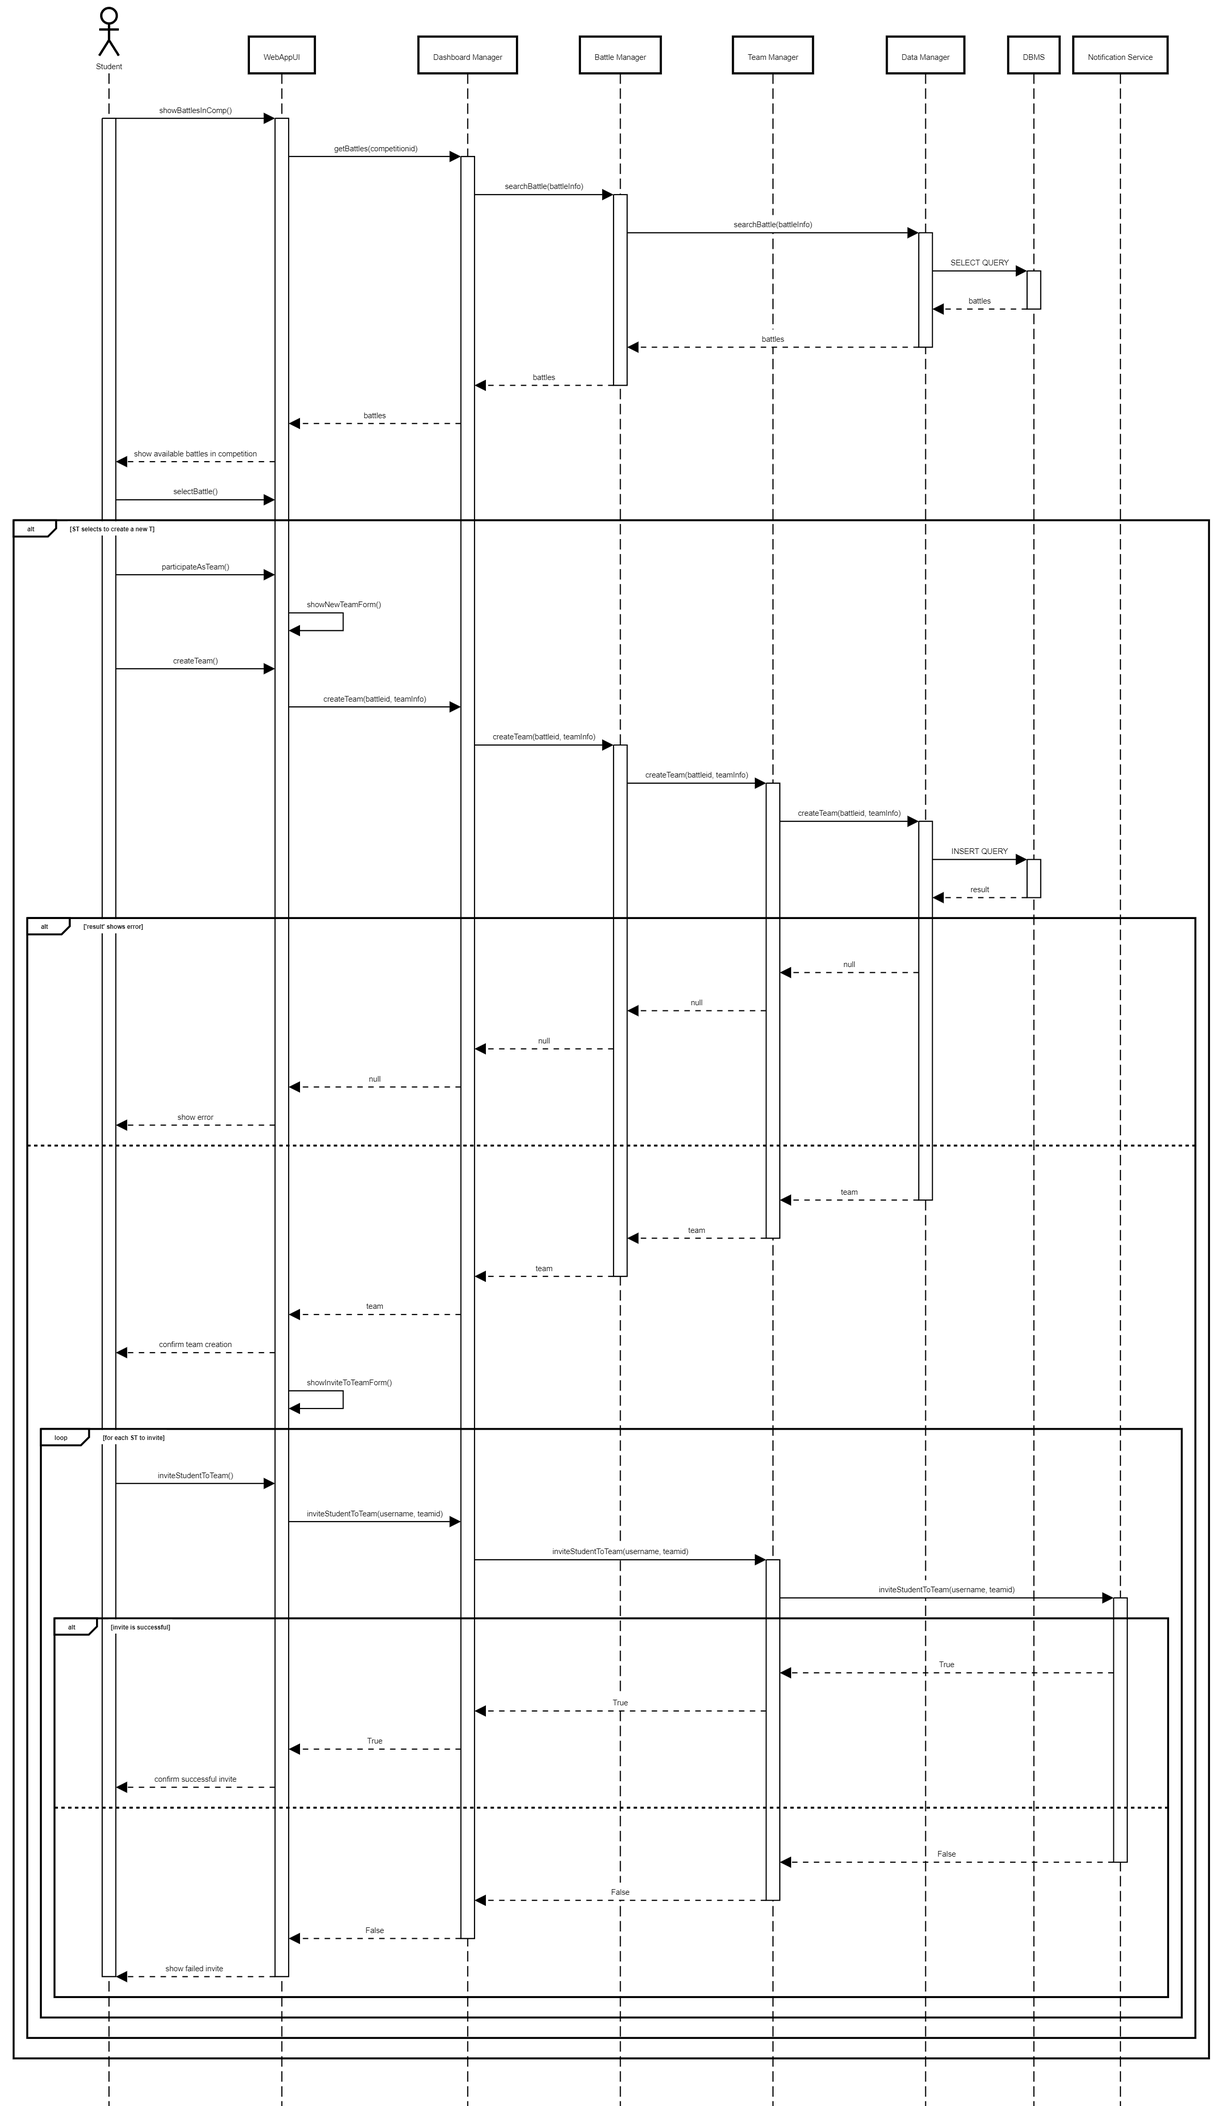
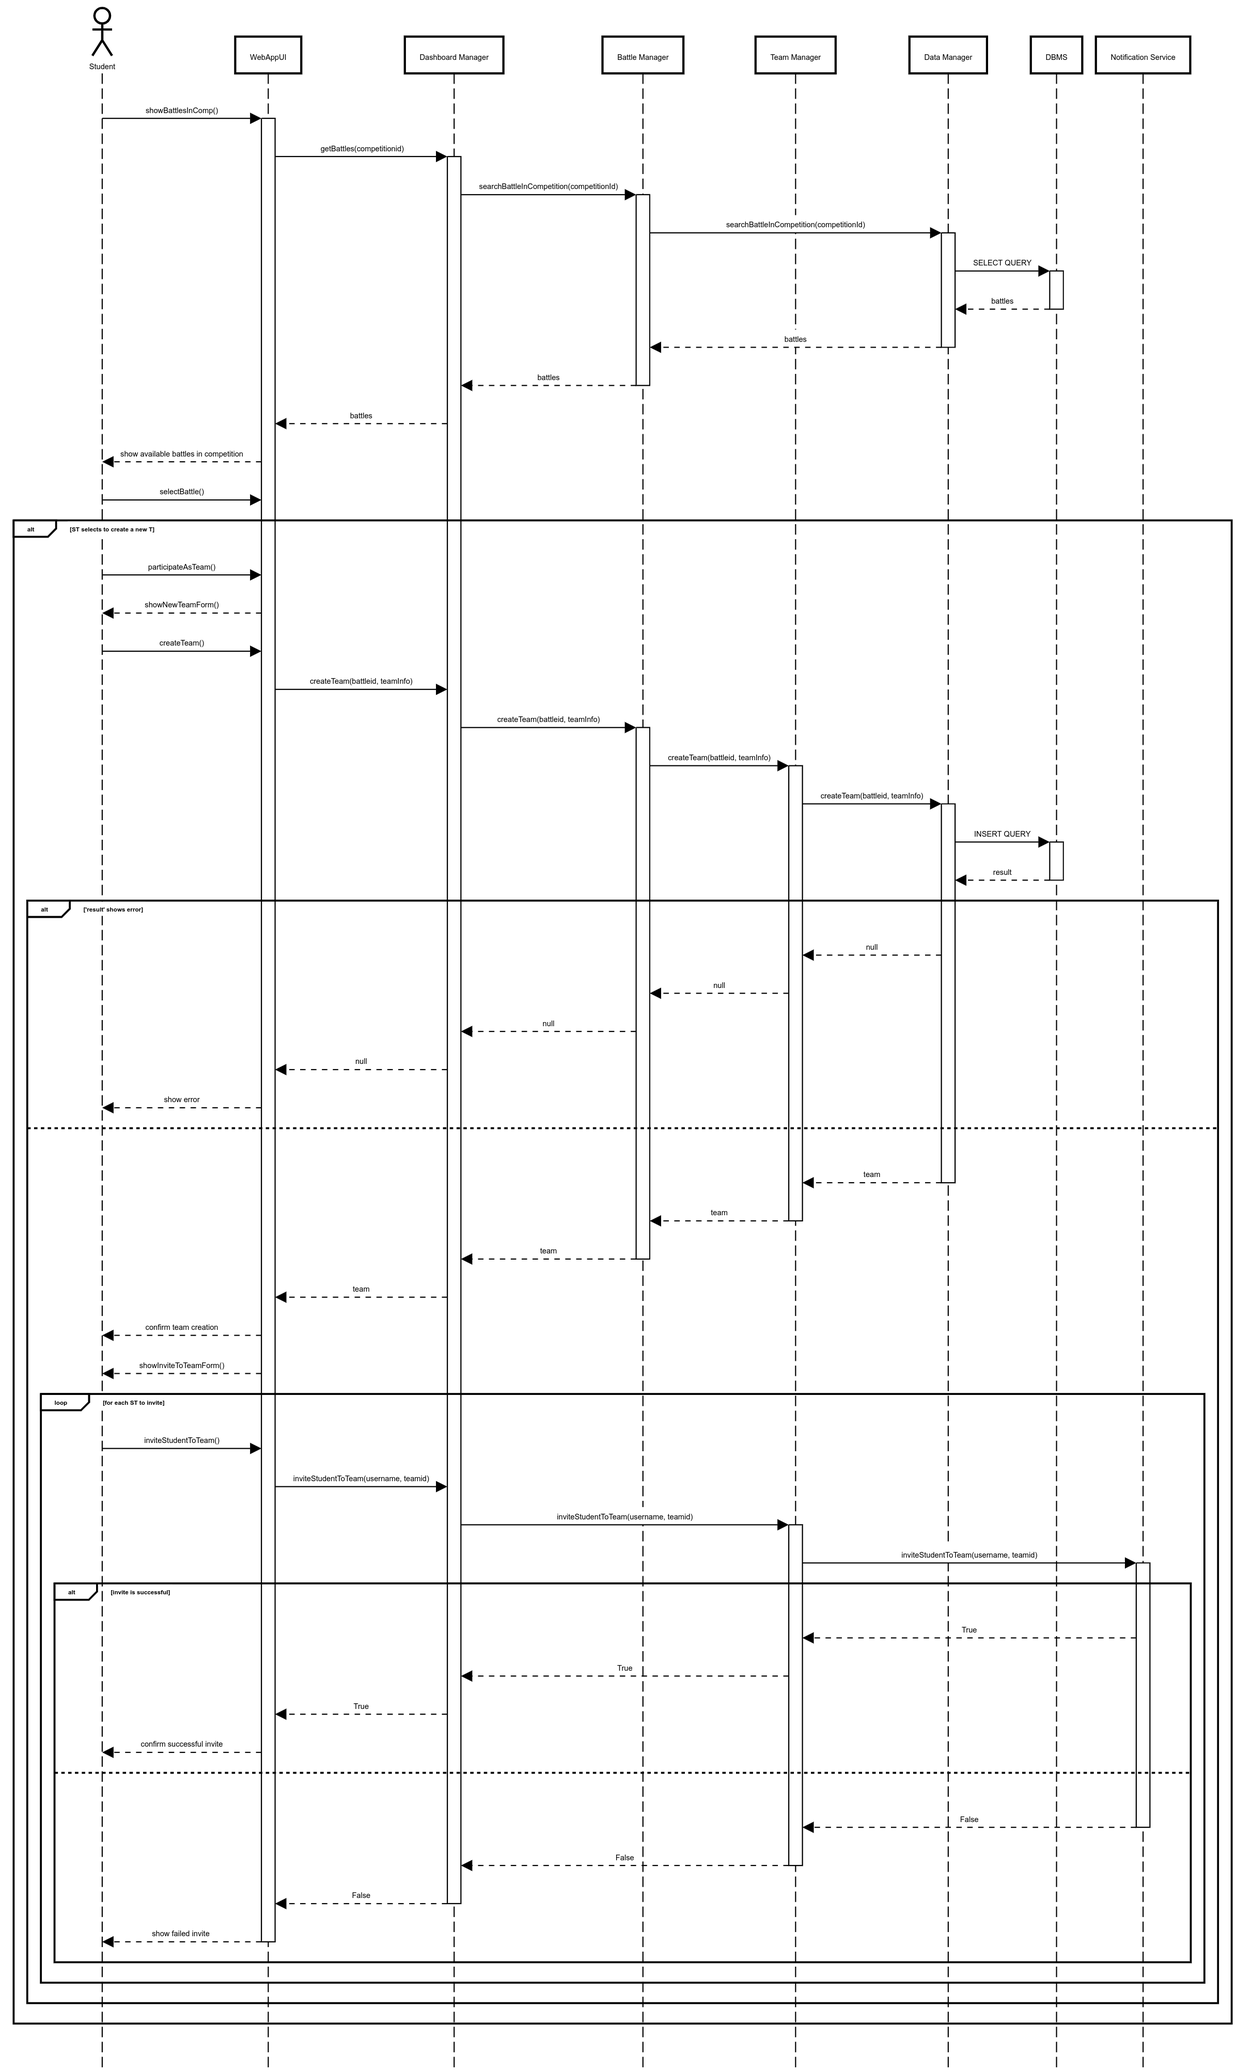
fixed interfaces and minor changes in UCs

diff --git a/DD/latex/Files/architectural_design.tex b/DD/latex/Files/architectural_design.tex
@@ -51,9 +51,9 @@ This section contains the sequence diagrams of the most important operations of 
 \label{ss:registration_diagram}%
 When a user wants to register to the system, he/she has to fill in the registration form and submit it. The difference between a ST and an ED is in the information passed with \textit{UserInfo} object, where the ED has to insert also the information about the institution he/she works for.
 
-The whole process is mainly handled by the \textit{Authentication Manager} component, that interact with the \textit{Data Manager} component to validate the information and insert the new user into the DBMS.
+The whole process is mainly handled by the \textit{Authentication Service} component, that interact with the \textit{Data Manager} component to validate the information and insert the new user into the DBMS.
 
-The system will check if the information inserted are valid and if the user is not already registered. This check is done internally from CKB and if the information are valid and the user is not already registered, the system will insert it into the DBMS and sends an email to the user with a link to confirm the registration, using the \textit{Notification Manager} component. The user will click on the link and the \textit{Authentication Manager} will confirm the registration.
+The system will check if the information inserted are valid and if the user is not already registered. This check is done internally from CKB and if the information are valid and the user is not already registered, the system will insert it into the DBMS and sends an email to the user with a link to confirm the registration, using the \textit{Notification Manager} component. The user will click on the link and the \textit{Authentication Service} will confirm the registration.
 
 If the information inserted are not valid, the user is already registered or the confirmation link is expired, the system will send an error message to the user.
 
@@ -66,7 +66,7 @@ If the information inserted are not valid, the user is already registered or the
 
 \subsubsection*{User Login}
 \label{ss:login_diagram}%
-When a user wants to login to the system, he/she has to fill in the login form and submit it. This process is equal for both the ST and the ED. As the User Registration, the whole process is handled by the \textit{Authentication Manager} component, that interact with the \textit{Data Manager} component to validate the information. Once the user is logged in, the \textit{Authentication Manager} will generate a token for the user, send it to the client and the user can finally access the dashboard.
+When a user wants to login to the system, he/she has to fill in the login form and submit it. This process is equal for both the ST and the ED. As the User Registration, the whole process is handled by the \textit{Authentication Service} component, that interact with the \textit{Data Manager} component to validate the information. Once the user is logged in, the \textit{Authentication Service} will generate a token for the user, send it to the client and the user can finally access the dashboard.
 
 If the login information are not valid, the system will show an error message to the user.
 
@@ -158,43 +158,45 @@ Assuming that a User (ST or ED) is enrolled firstly in a competition and secondl
 \subsection{Authentication Service}
 \subsubsection{AuthInterface}
 \begin{itemize}
-    \item \texttt{User login(username:String,password:String)}
-    \item \texttt{bool register(info:UserInfo)}
+    \item \texttt{User login(username:String,password:String)}%x
+    \item \texttt{bool register(info:UserInfo)} %x
 \end{itemize}
 
 \subsection{Data Manager}
 \subsubsection{AuthDAOInterface}
 \begin{itemize}
-    \item \texttt{bool addUser(info: UserInfo)}
-    \item \texttt{bool checkCredential(username:String,password:String)}
-    \item \texttt{bool validateNewUser(info:UserInfo)}
-    \item \texttt{User getUser(username:String)}
+    \item \texttt{bool addUser(info: UserInfo)}%x
+    \item \texttt{bool checkCredential(username:String,password:String)}%x
+    \item \texttt{bool validateNewUser(info:UserInfo)}%x
+    \item \texttt{User getUser(username:String)}%x
 \end{itemize}
-
+getCompeti
 \subsubsection{CompetitionDAOInterface}
 \begin{itemize}
     \item \texttt{bool createCompetition(info:CompetitionInfo)}
     \item \texttt{bool addStudentToCompetition(competitionName:String, studentUsername:String)}
-    \item \texttt{bool checkEdCanbeInvited(competitionName:String,educatorId:String)}
-    \item \texttt{CompetitionInfo getCompetition(name:String)}
+    \item \texttt{bool checkEdCanbeInvited(competitionName:String,educatorId:String)}%x
+    \item \texttt{Competition getCompetition(name:String)}%x
     \item \texttt{List<Team> getCompRankings(competitionid: String)}
 \end{itemize}
 
 \subsubsection{BattleDAOInterface}
 \begin{itemize}
-    \item \texttt{bool createBattle(competitionName:String, battleInfo:BattleInfo, educatorId:String)}
+    \item \texttt{bool createBattle(competitionName:String, battleInfo:BattleInfo,\\educatorId:String)}%x
     \item \texttt{Set<Battle> searchBattle(battleInfo:BattleInfo)}
+    \item \texttt{List<Battle> searchBattleInCompetition(competitionId:String)}%x
     \item \texttt{Battle showBattle(battleName:String)}
     \item \texttt{List<Team> getBattleRankings(battleid: String)}
+    \item \texttt{bool insertBattleConfiguration(battleConfiguration:BattleConfiguration, battleName:String,\\educatorId:String)}%x
 \end{itemize}
 
 \subsubsection{UserDAOInterface}
 \begin{itemize}
-    \item \texttt{Team createTeam(battleId:String, teamInfo:TeamInfo)}
+    \item \texttt{Team createTeam(battleId:String, teamInfo:TeamInfo)}%x
     \item \texttt{bool removeTeam(teamId:String)}
-    \item \texttt{bool addStudentToTeam(username:String,teamId:String)}
-    \item \texttt{bool setManualEvaluation(educatorId:String,commitId:String,evaluation: Evaluation)}
-    \item \texttt{Team getTeams(battleid: String)}
+    \item \texttt{bool addStudentToTeam(username:String,teamId:String)}%x
+    \item \texttt{bool setManualEvaluation(educatorId:String,commitId:String,evaluation: Evaluation)}%x
+    \item \texttt{Team getTeams(battleid: String)}%x
 \end{itemize}
 
 \subsubsection{BadgeDAOInterface}
@@ -203,19 +205,19 @@ Assuming that a User (ST or ED) is enrolled firstly in a competition and secondl
     \item \texttt{BadgeRule getBadgeRule(badge: Badge)}
     \item \texttt{bool removeBadge(badge:Badge)}
     \item \texttt{bool assignBadge(username:String, badge:Badge)}
-    \item \texttt{Badge createBadge(educatorId:String,competitionId:String, badgeInfo:BadgeInfo)}
+    \item \texttt{bool createBadge(educatorId:String,competitionId:String, badgeInfo:BadgeInfo)}%x
 \end{itemize}
 
 \subsubsection{NotificationDAOInterface}
 \begin{itemize}
     \item \texttt{Set<Student> retrieveStudentsFromTeam(teamId:String)}
     \item \texttt{Set<User> retrieveUsersFromCompetition(competitionId:String)}
-    \item \texttt{Set<Student> retrieveStudentsFromCompetition(competitionId:String)}
+    \item \texttt{Set<Student> retrieveStudentsFromCompetition(competitionId:String)}%x
     \item \texttt{Set<Educator> retrieveEducatorsFromCompetition(competitionId:String)}
     \item \texttt{Set<User> retrieveUsersFromBattle(battleId:String)}
     \item \texttt{Set<Student> retrieveStudentsFromBattle(battleId:String)}
     \item \texttt{Set<Educator> retrieveEducatorsFromBattle(battleId:String)}
-    \item \texttt{Educator retrieveEducatorInfo(educatorId:String)}
+    \item \texttt{Educator retrieveEducatorInfo(educatorId:String)}%x
 \end{itemize}
 
 \subsubsection{PointsAPI}
@@ -225,59 +227,65 @@ Assuming that a User (ST or ED) is enrolled firstly in a competition and secondl
 
 \subsubsection{DashboardDAOInterface}
 \begin{itemize}
-    \item \texttt{List<Student> searchStudent(studentName:String)}
-    \item \texttt{Student showStudentProfile(username:String)}
+    \item \texttt{List<Student> searchStudent(studentName:String)}%x
+    \item \texttt{Student showStudentProfile(username:String)}%x
+    \item \texttt{CommitInfo getLastCommit(teamId: String)}%x
 \end{itemize}
 
 \subsection{Dashboard Manager}
 \subsubsection{DashboardInterface}
 \begin{itemize}
-    \item \texttt{DashboardInfo getDashboardInfo(User)}
-    \item \texttt{createCompetition(competitionInfo:CompetitionInfo)}
-    \item \texttt{bool createBattle(battleInfo:BattleInfo)}
-    \item \texttt{bool joinCompetition(competitionName:String, studentUsername:String)}
-    \item \texttt{CompetitionInfo showCompetition(name:String)}
-    \item \texttt{BattleInfo getBattles(competitionid: String)}
-    \item \texttt{BattleInfo getBattles(competitionid: String, battleInfo: BattleInfo)}
-    \item \texttt{bool insertSATConfiguration(satConfiguration,battleName,educatorId)}
-    \item \texttt{bool inviteStudentToTeam(username: String, teamid: String)}
-    \item \texttt{List<Team> getTeams(battleid: String)}
-    \item \texttt{bool joinTeam(teamid: String)}
+    \item \texttt{DashboardInfo getDashboardInfo(User)}%x
+    \item \texttt{createCompetition(competitionInfo:CompetitionInfo)}%x
+    \item \texttt{bool createBattle(battleInfo:BattleInfo,competitionName:String,\\educatorId:String)}%x
+    \item \texttt{bool joinCompetition(competitionName:String, studentUsername:String)}%x
+    \item \texttt{CompetitionInfo showCompetition(name:String)}%x
+    \item \texttt{List<Battle> getBattles(competitionid: String)}%x
+    %@toCheck
+    \item \texttt{Battle getBattle(competitionid: String, battleId: String)}
+    %\item \texttt{bool insertSATConfiguration(satConfiguration:SatConfiguration,\\battleName:String,educatorId:String)}%x
+    \item \texttt{bool insertBattleConfiguration(battleConfiguration:BattleConfiguration, battleName:String,\\educatorId:String)}%x
+    \item \texttt{bool inviteStudentToTeam(username: String, teamid: String)}%x
+    \item \texttt{List<Team> getTeams(battleid: String)}%x
+    \item \texttt{bool joinTeam(username: String,teamid: String)}%x
     \item \texttt{List<Team> getCompRankings(competitionid: String)}
     \item \texttt{List<Team> getBattleRankings(battleInfo: BattleInfo)}
-    \item \texttt{List<Student> searchStudent(studentName:String)}
-    \item \texttt{Student showStudentProfile(username:String)}
-    \item \texttt{CompetitionSetting showCompetitionSettings(educatorId:String,competitionId:String)}
-    \item \texttt{bool inviteED(educatorId:String,competitionId:String,invitedEducatorId:String)}
-    \item \texttt{Badge createBadge(educatorId:String,competitionName:String, badgeInfo: BadgeInfo)}
-    \item \texttt{CommitInfo getLastCommit(teamId: String)}
-    \item \texttt{bool acceptCompInvitation(username:String,competitionId:String)}
-    \item \texttt{bool acceptTeamInvitation(username:String,teamId:String)}
-    \item \texttt{Team createTeam(battleid: String, username: String)}
+    \item \texttt{List<Student> searchStudent(studentName:String)}%x
+    \item \texttt{Student showStudentProfile(username:String)}%x
+    \item \texttt{CompetitionSetting showCompetitionSettings(educatorId:String,\\competitionId:String)}%x
+    \item \texttt{BadgeCreation showBadgeCreation(educatorId:String,\\competitionId:String)}%x
+    \item \texttt{InviteEdPanel showInviteEd(educatorId:String,competitionId:String)}%x
+    \item \texttt{bool inviteED(educatorId:String,competitionId:String,invitedEducatorId:String)}%x
+    \item \texttt{bool createBadge(educatorId:String,competitionName:String, badgeInfo: BadgeInfo)}%x
+    \item \texttt{CommitInfo getLastCommit(teamId: String)}%x
+    \item \texttt{bool acceptInvitation(educatorId:String,competitionId:String)}%x
+    \item \texttt{bool acceptTeamInvitation(username:String,teamId:String)}%x
+    \item \texttt{Team createTeam(battleid: String, username: String)}%x
+    \item \texttt{bool evaluateCommit(commitId: String)}%x
 \end{itemize}
 
 \subsection{Competition Manager}
 \subsubsection{CompetitionInterface}
 \begin{itemize}
-    \item \texttt{bool createCompetition(info:CompetitionInfo)}
+    \item \texttt{Competition createCompetition(info:CompetitionInfo)}%x
     \item \texttt{Set<Competition> searchCompetition(info:CompetitionInfo)}
     \item \texttt{bool deleteCompetition(name:String)}
-    \item \texttt{CompetitionInfo showCompetition(name:String)}
-    \item \texttt{bool addManager(competitionName:String,username:String)}
+    \item \texttt{Competition getCompetition(name:String)}%x
+    \item \texttt{bool addManager(competitionName:String,username:String)}%x
     \item \texttt{bool removeManager(competitionName:String,username:String)}
     \item \texttt{bool endCompetition(competitionName:String)}
-    \item \texttt{bool joinCompetition(competitionName:String, studentUsername:String)}
-    \item \texttt{Badge createBadge(educatorId:String,competitionName:String, badgeInfo: BadgeInfo)}
+    \item \texttt{bool joinCompetition(competitionName:String, studentUsername:String)}%x
+    \item \texttt{bool createBadge(educatorId:String,competitionName:String, badgeInfo: BadgeInfo)}%x
     \item \texttt{bool removeBadge(badgeId:String)}
     \item \texttt{List<Team> getRankings(competitionid: String)}
-    \item \texttt{bool acceptInvitation(educatorId:String,competitionId:String)}
-    \item \texttt{bool inviteED(educatorId:String,competitionId:String,invitedEducatorId:String)}
+    \item \texttt{bool acceptInvitation(educatorId:String,competitionId:String)}%x
+    \item \texttt{bool inviteED(educatorId:String,competitionId:String,invitedEducatorId:String)}%x
 \end{itemize}
 
-\subsection{Badge Monitor}
+\subsection{Badge Manager}
 \subsubsection{BadgeInterface}
 \begin{itemize}
-    \item \texttt{bool createBadge(competitionName:String, badgeInfo: BadgeInfo)}
+    \item \texttt{bool createBadge(competitionName:String, badgeInfo: BadgeInfo)}%x
     \item \texttt{bool assignBadges(competitionName:String)}
     \item \texttt{bool removeBadge(badgeId:String)}
 \end{itemize}
@@ -286,12 +294,14 @@ Assuming that a User (ST or ED) is enrolled firstly in a competition and secondl
 \subsubsection{BattleInterface}
 \begin{itemize}
     \item \texttt{bool createBattle(competitionName:String, battleInfo:BattleInfo, educatorId:String)}
-    \item \texttt{Team createTeam(battleId:String, teamInfo:TeamInfo)}
+    \item \texttt{Team createTeam(battleId:String, teamInfo:TeamInfo)}%x
     \item \texttt{bool removeTeam(teamId:String)}
-    \item \texttt{Set<Battle> searchBattle(battleInfo:BattleInfo)}
+    \item \texttt{List<Battle> searchBattle(battleInfo:BattleInfo)}
+    \item \texttt{List<Battle> searchBattleInCompetition(competitionId:String)}%x
     \item \texttt{Battle showBattle(battleName:String)}
     \item \texttt{bool deleteBattle(battleName:String)}
-    \item \texttt{insertSATConfiguration(satConfiguration,battleName,educatorId)}
+    %\item \texttt{insertSATConfiguration(satConfiguration,battleName,educatorId)}
+    \item \texttt{bool insertBattleConfiguration(battleConfiguration:BattleConfiguration, battleName:String,\\educatorId:String)}%x
     \item \texttt{List<Team> getRankings(battleid: String)}
 \end{itemize}
 
@@ -300,26 +310,26 @@ Assuming that a User (ST or ED) is enrolled firstly in a competition and secondl
 \begin{itemize}
     \item \texttt{Team createTeam(battleId:String, teamInfo:TeamInfo)}
     \item \texttt{bool removeTeam(teamId:String)}
-    \item \texttt{Team getTeams(battleid: String)}
+    \item \texttt{Team getTeams(battleid: String)}%x
 \end{itemize}
 
 \subsubsection{TeamInterface}
 \begin{itemize}
-    \item \texttt{bool addStudentToTeam(username:String,teamId:String)}
-    \item \texttt{bool inviteStudentToTeam(username:String,teamId:String)}
-    \item \texttt{bool setManualEvaluation(educatorId:String,commitId:String,evaluation: Evaluation)}
+    \item \texttt{bool addStudentToTeam(username:String,teamId:String)}%x
+    \item \texttt{bool inviteStudentToTeam(username:String,teamId:String)}%x
+    \item \texttt{bool setManualEvaluation(educatorId:String,commitId:String,evaluation: Evaluation)}%x
 \end{itemize}
 
 
 \subsection{Notification Service}
 \subsubsection{InviteInterface}
 \begin{itemize}
-    \item \texttt{bool inviteStudentToTeam(username:String,teamId:String)}
+    \item \texttt{bool inviteStudentToTeam(username:String,teamId:String)}%x
 \end{itemize}
 
 \subsubsection{NotifyBattleInterface}
 \begin{itemize}
-    \item \texttt{bool notifyBattleCreation(battleId:String, competitionId:String)}
+    \item \texttt{bool notifyBattleCreation(battleId:String, competitionId:String)}%x
     \item \texttt{bool notifyStartedBattle(battleId:String,username:String)}
     \item \texttt{bool notifyEndBattle(battleId:String,username:String)}
     \item \texttt{bool notifyManageBattle(battleId:String,username:String)}
@@ -329,14 +339,13 @@ Assuming that a User (ST or ED) is enrolled firstly in a competition and secondl
 \begin{itemize}
     \item \texttt{bool notifyNewCompetion(competitionId:String,username:String)}
     \item \texttt{bool notifyNewBattle(competitionId:String, battleId:String,username:String)}
-    \item \texttt{bool notifyEdInvitation(competitionId:String,invitedEd:String)}
+    \item \texttt{bool notifyEdInvitation(competitionId:String,invitedEd:String)}%x
     \item \texttt{bool notifyManageCompetition(competitionId:String,username:String)}
-    \item \texttt{bool notifyNewBadge(competitionId:String,badgeId:String)}
 \end{itemize}
 
 \subsubsection{NotifyAuthInterface}
 \begin{itemize}
-    \item \texttt{bool NotifyUserRegistration(User)}
+    \item \texttt{bool NotifyUserRegistration(User)}%x
 \end{itemize}
 
 \subsection{Evaluator Controller}

diff --git a/DD/latex/Files/implementation_integration_test_plan.tex b/DD/latex/Files/implementation_integration_test_plan.tex
@@ -67,7 +67,7 @@ For the implementation of the \textit{Evaluation Server}, that can be implement 
     \caption{Step 1 - Evaluation Server}
 \end{figure}
 \pagebreak
-Once finished with the \textit{Evaluation Server}, the implementation and testing will focus on both the \textit{Code Evaluator} and the \textit{Static Analyzer}, a \textit{driver} will be used to simulate the \texit{Evaluation Controller}
+Once finished with the \textit{Evaluation Server}, the implementation and testing will focus on both the \textit{Code Evaluator} and the \textit{Static Analyzer}, a \textit{driver} will be used to simulate the \textit{Evaluation Controller}
 \begin{figure}[H]
     \label{fig:step2-EvaluationServer}
     \centering

diff --git a/DD/latex/DD.tex b/DD/latex/DD.tex
@@ -68,6 +68,7 @@
 \usepackage{algorithm}
 \usepackage{algorithmic}
 
+
 % PACKAGES FOR REFERENCES & BIBLIOGRAPHY
 \usepackage[colorlinks=true,linkcolor=black,anchorcolor=black,citecolor=black,filecolor=black,menucolor=black,runcolor=black,urlcolor=black]{hyperref} % Adds clickable links at references
 \usepackage{cleveref}
